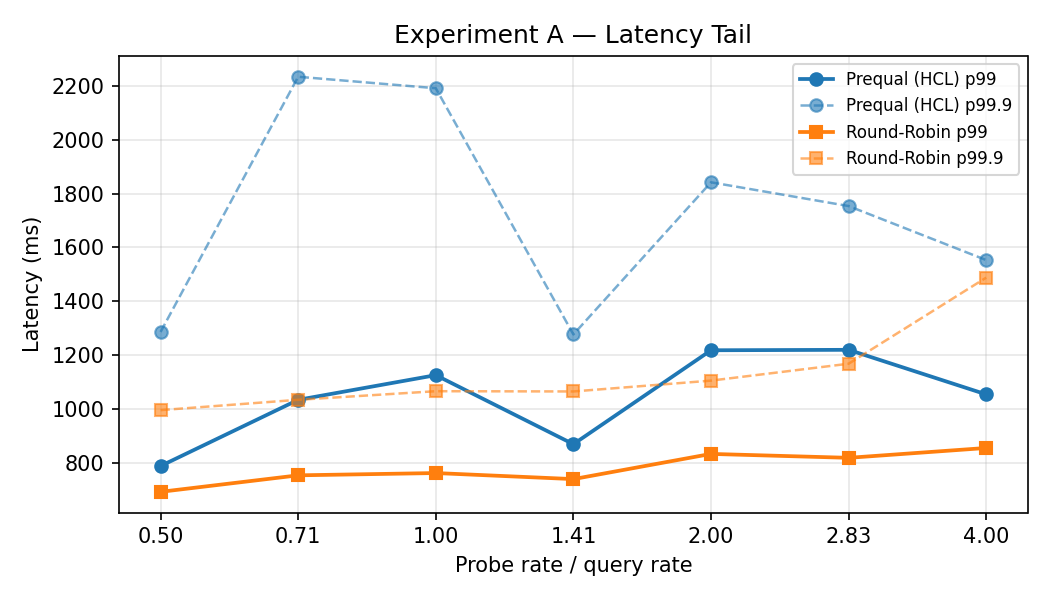
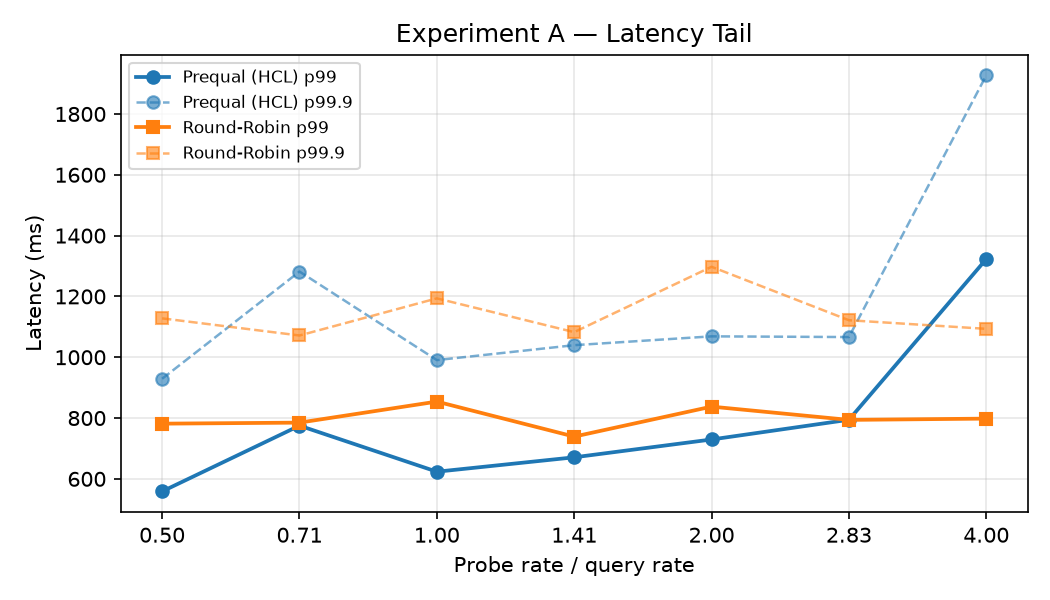
report: 100be local image

diff --git a/report.md b/report.md
@@ -300,7 +300,7 @@ hitting the hard `queueDepth` ceiling rather than just slowing gracefully.
 **100 backends** (`results_a_100be.csv` / `results_a_100be_v2.csv`): results at
 this scale are dominated by the 8.3x CPU-oversubscription confound (Section 3.1) —
 total errors of 5531 / 7882 across two re-runs indicate the host is saturated
-independently of algorithm behavior. We do not draw conclusions from this data.
+independently of algorithm behavior. **We do not draw conclusions from this data**.
 
 **Headline result for A**: the **50-backend run** (`results_a_50be.csv`) — a clean,
 consistent 30–40% Prequal p99 advantage over RR across the full probe-rate sweep,
